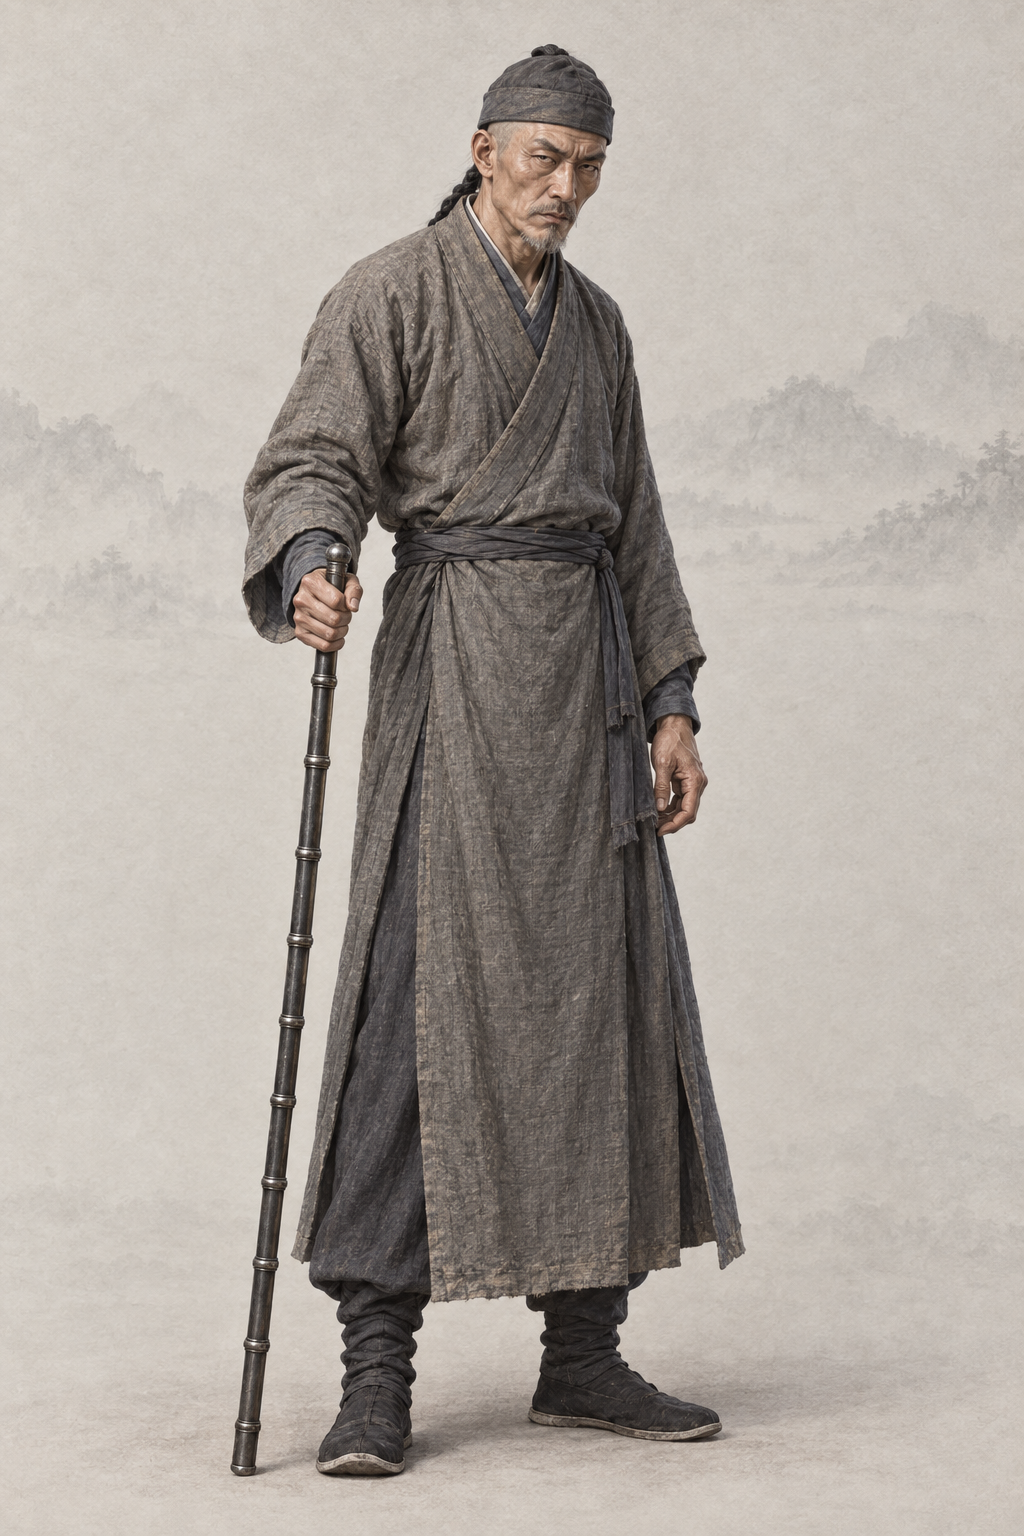
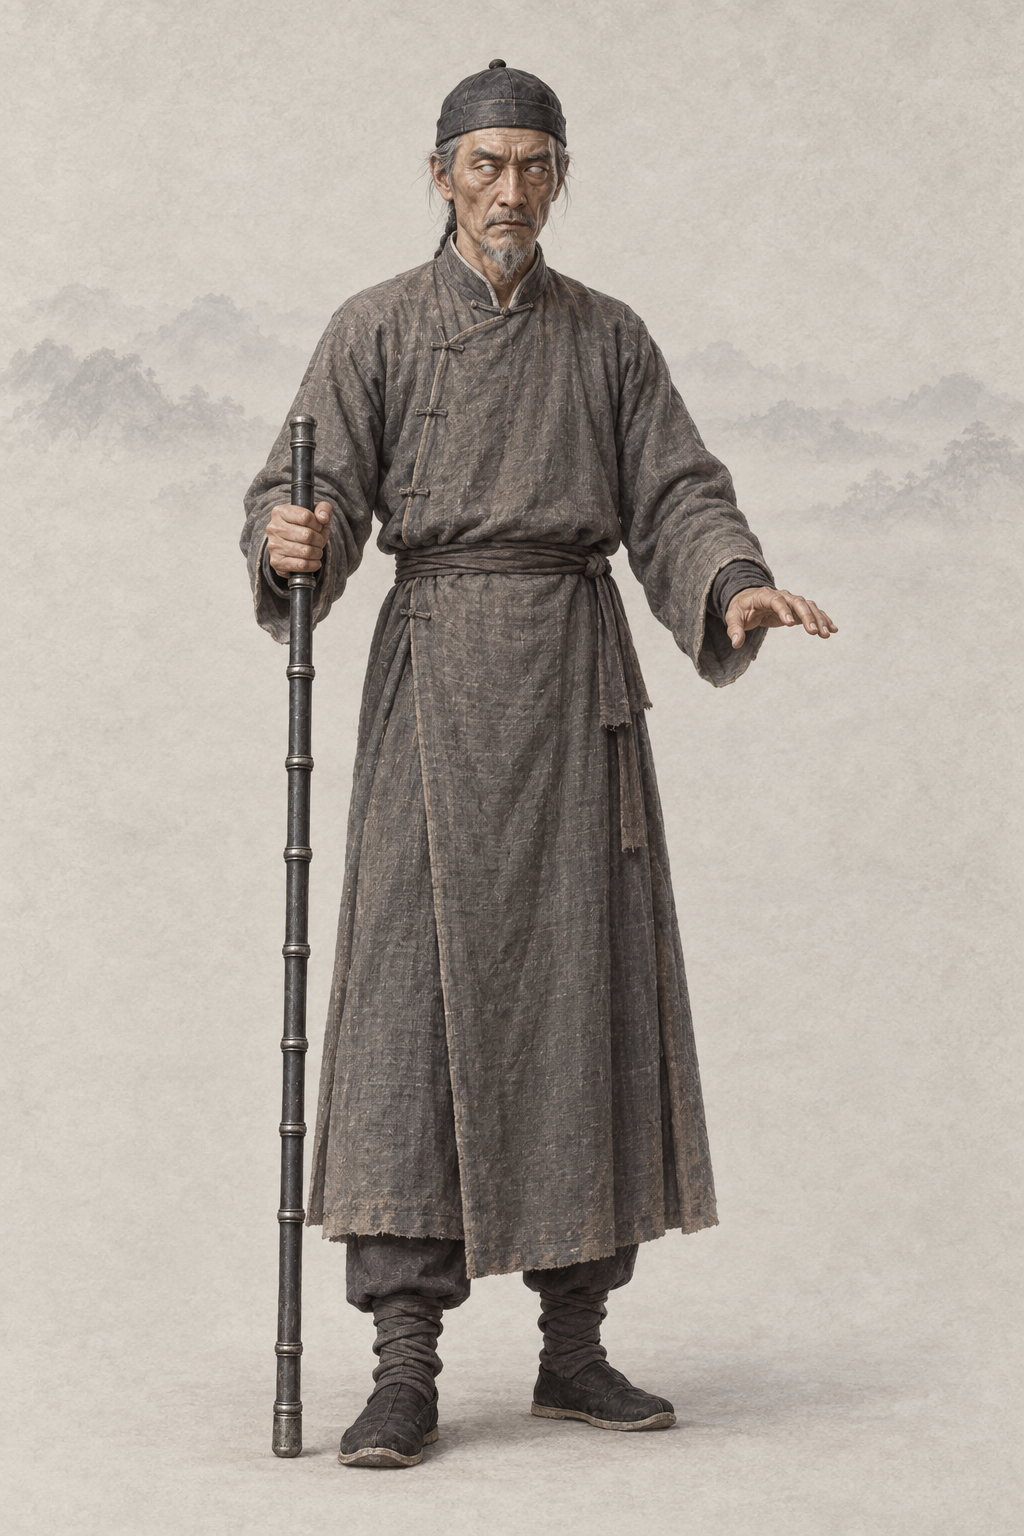
assets(character): por_npc_zhuotianxiong__ch11_elder_feignedblind_base 卓天雄（codex · AR-32 文字 + 基线）
本人无可用剧照或可靠游戏头像，只用文字与两张同性别基线重出；提示词写回、frontmatter 加 classic_ref。

diff --git a/assets/default/prompts/characters/ch11-yuanyang/npc_zhuotianxiong.md b/assets/default/prompts/characters/ch11-yuanyang/npc_zhuotianxiong.md
@@ -13,14 +13,37 @@ references:
   use: 仅取画法、纸底、柔光、笔触和设色，不继承参考角色面容、年龄体型、发式、衣装或道具。实际manifest状态candidate；作者本轮明确指定男女现有基线用于生产，审批状态保留不变。SHA-256 c9f87f225636e3f8166717f1b0c8ccaf13c319210fdc6069e09289e96632fd89
 status: redo
 redo_reason: "本书主要反派，现图脸与刘於义、石望等老者同款且看不出装瞎；保留假盲与铁杖设定，改成高瘦鹰隼相的大内高手。"
+codex_prompt_rev: 2026-10-02
 reference_upload:
 - assets/default/baseline/character/male/ref_npc_linghuchong__ch05_base01.png
-codex_prompt_rev: 2026-10-02
+- assets/default/baseline/character/male/ref_npc_xiaofeng__ch01_base01.png
+classic_ref: "无（作者 10-02 指定鸳鸯刀用《金庸群侠传》头像；游戏里没有可靠的卓天雄头像，只用文字与基线）"
 ---
 
 # 卓天雄 · 《鸳鸯刀》（ch11）
 
 ## Gemini 提示词
+
+> 2026-10-02 AR-32 重出（8 号出图员，codex exec · image_gen）：本人没有可用的经典剧照或可靠游戏头像，只用文字与两张同性别画风基线（缩小版 JPEG，放在最后上传）；按原著与设定重写人物描写，去 AI 味、禁止幼态。上一版保留在下一节作历史。
+
+```text
+生成一张 2:3 竖幅全身人物立绘：单人、单一视角、完整全身——头顶、双手、双脚和手中器物的两端都在画面内，四周留出自然空白；人物站姿自然，身体基本朝向正面，头部端正（不歪头、不仰不俯），镜头平视。
+【参考图】随提示词上传的两张参考图都是本项目的立绘画风基线：画风、用色、光线、质感和暖浅灰纸底加淡水墨背景以它们为准；它们只管画风，不取长相、年龄、发型、服饰和姿势。人物的长相和造型完全按下面的文字来画。
+【画风】写实手绘古风人物插画，与本项目写实武侠角色立绘同一画风，像功力深厚的画师用细腻笔触画出的真实人物。手绘插画质感，不是 CG 渲染：不要过度光滑的皮肤、完美对称的五官、塑料高光、过度锐利的发丝；保留自然的笔触和细微不完美。皮肤有真实质感——细小毛孔、细纹、晒痕和自然的左右不对称，不磨皮、不油亮；头发是一缕缕自然的发丝和少量碎发；布料看得出经纬纹理、厚薄和自然垂坠的褶皱，带穿用过的轻微旧化，但完整不破烂；整体设色低饱和、沉稳；柔和的自然光从左上方照来，明暗过渡自然，不打舞台光、轮廓光或美颜柔光。不是照片，不是三维渲染，不是动漫或游戏 CG，也不是油画（没有厚涂笔触和画布纹理）。
+【背景】不透明的暖浅灰色纸底，只在远处有极淡的水墨远山和薄雾，大面积留白；人物与背景明暗分明、轮廓边缘干净完整（后续要自动抠图），水墨和纸纹只在背景里，不侵入人物和衣服；脚下只有很淡的一点接触阴影。
+【人物】卓天雄，金庸《鸳鸯刀》的主要反派，清宫大内高手；此时假扮成一个瞎眼的穷老头，暗中盯住押运宝刀的镖局（清代，乾隆初年）。
+【年龄与体态】五十五岁上下的男人，身材高瘦，筋骨像铁一样硬；背微微佝偻是装出来的，重心其实很稳，双腿有力。
+【经典造型】假扮瞎老头的大内高手：破旧长衫、眼皮半垂像个瞎子，拄着一根竹节钢鞭当盲杖；看似寒酸可怜，细看却精悍阴狠、杀气暗藏。
+【面容】高瘦的长脸，颧骨高耸、两颊削瘦；鹰钩鼻；眼皮半垂、眼珠灰白像是盲人，但眼缝里隐约透出锐利阴冷的光；嘴唇薄而紧抿，嘴角下垂；下巴上留着稀疏的灰白山羊胡；皮肤粗糙、布满风霜皱纹。阴鸷、精悍，像一只装睡的老鹰。
+【发式】清代男子发式：前额剃净，后脑是灰白掺黑的细辫，辫梢垂到腰；头上压一顶旧的深灰瓜皮小帽，帽檐不遮脸。
+【服饰】破旧的灰褐色长衫（清式：圆领、大襟右衽、布纽扣），袖口磨得起毛，暗灰色内衣，布带束腰，旧布裤扎着裤脚，旧布鞋；是穷苦瞎老头的寒酸行头，衣服完整、没有破洞。
+【道具】右手拄一根竹节钢鞭当盲杖（乌黑的铁鞭，鞭身一节一节像竹子，鞭头点地）；左手微微向前探着，像盲人在摸路。
+【姿态与神情】身体正面朝前，背略佝偻，脸朝正前方（头部端正），神情木然，却透着让人不寒而栗的阴狠。
+【不要】画面里不要任何文字、题款、印章、签名、水印、边框、分格或多视图；不要第二个人；不要幼态（童颜、娃娃脸、婴儿肥、儿童或少年身材、大头小身）；不要塑料感皮肤、磨皮美颜、网红脸（尖下巴大眼高鼻的模板脸）、过度对称、浓妆、偶像式打光、蜡像感；不要照片质感、三维渲染或动漫大眼；不要歪头、斜镜头；不要多指、缺指（设定的伤残除外）、手与器物粘连或悬空；衣襟必须右衽（穿着者的左襟压在右襟上），不要左衽（设定为少数民族服制的除外），不要水平镜像；不要现代物品、发光特效、法阵或能量光。不要真正的老态龙钟或慈祥神情；不要锦衣官服、顶戴花翎或黄马褂（他在伪装）；不要明代网巾和汉式交领宽袍；不要和萧半和、刘於义同一张脸。
+【画风基线】随提示词上传的参考图里，最后两张是本项目的立绘画风基线：只参考它们的画风、用色、光线、质感和暖浅灰纸底加淡水墨的背景处理，整体画风必须与它们一致——精细写实的数字手绘插画，不是油画，不要厚涂笔触和画布纹理。基线图只取画风，不取长相：不要照搬基线图里人物的长相、年龄、发型、服饰和姿势。
+```
+
+## AR-31 文字版 Gemini 提示词（2026-10-02 凌晨；AR-32 重出之前，历史，不再用于出图）
 
 > 2026-10-02 Codex 人物线 2 号（AR-31）：在审核组稿上补一行「经典形象」（借鉴公认经典造型的发式、装束、配色、标志道具与气质，只写文字，不写演员名、不上传剧照），并补去 AI 化要求。本轮出图用下面第一个代码块；审核组原稿保留在其后的「审核组原稿」小节作历史。
 
